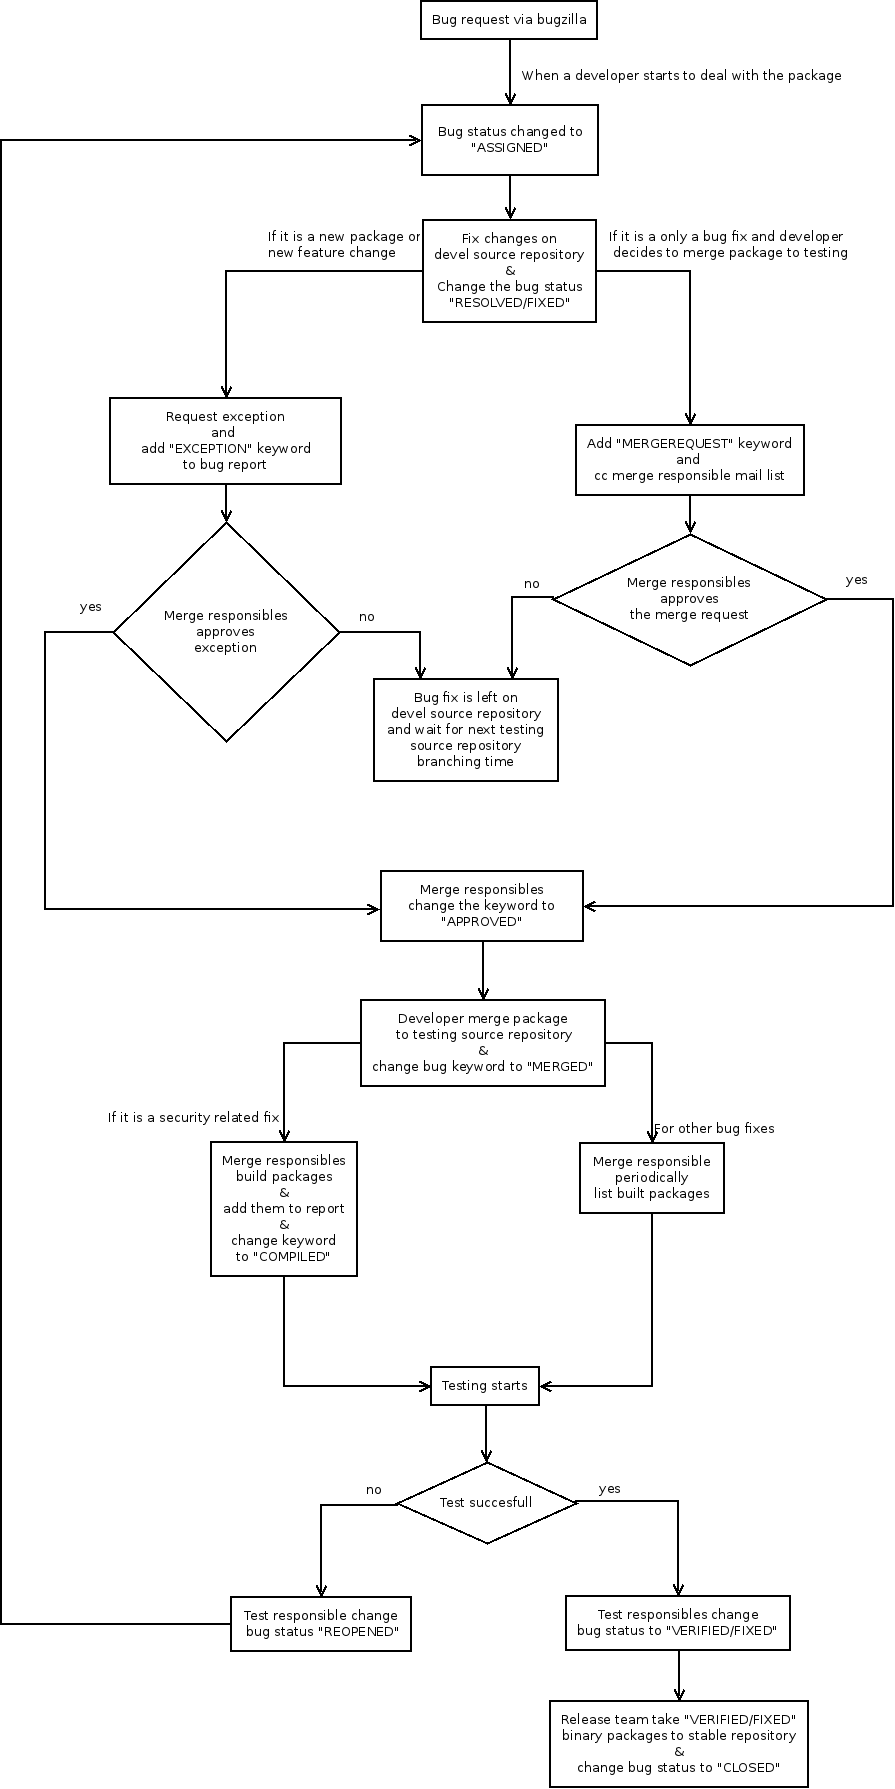
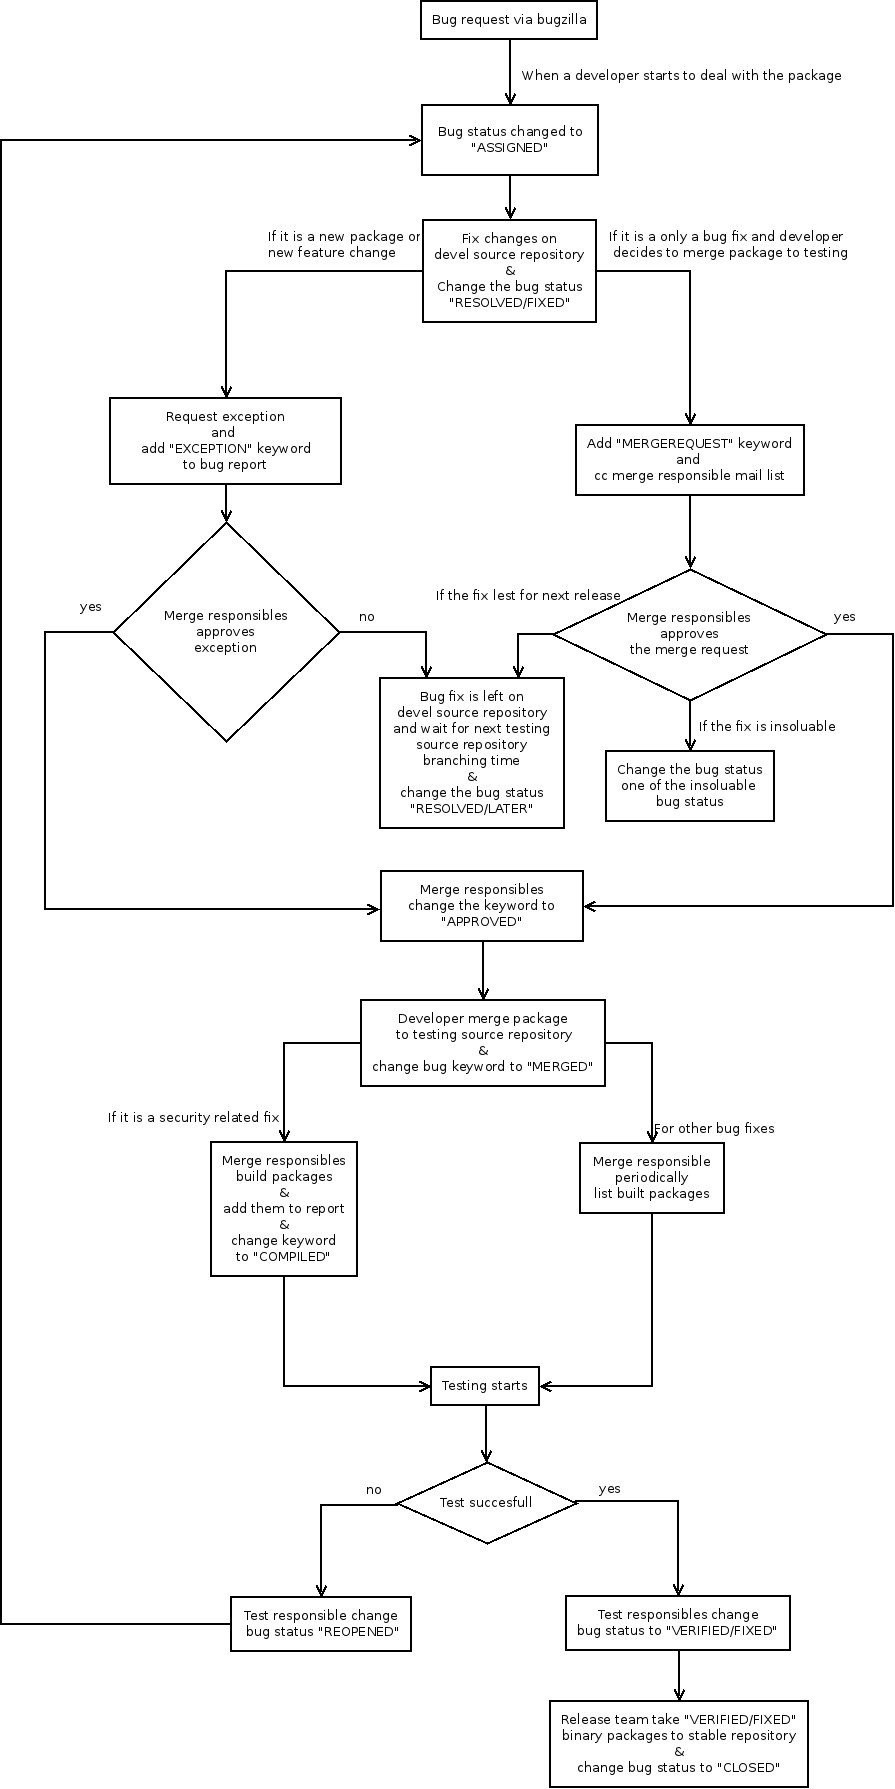
remind and later parts meaning explained and flowchart and other documents updated following this change

diff --git a/guides/newfeature/newfeature_requests.rst b/guides/newfeature/newfeature_requests.rst
@@ -116,7 +116,7 @@ There exist also another deadline that is the new feature acceptence deadline. B
 
 #. Release team, related team leader and assigned developer review "low" and "newfeature" severity bugs.
     #. If the new feature request is not suitable for `What is a Feature?`_ description, the report status is marked with **RESOLVED/INVALID**.
-    #. If this new feature can not be done for this new release but may be done for the next new release, the report status is marked with **RESOLVED/LATER**.
+    #. If this new feature can not be done for this new release but may be done for the next new release, the report status is marked with **RESOLVED/REMIND**.
     #. If this new feaure is suitable for `What is a Feature?`_ description, and can be accepted for this new release:
         #. One of the developers will start to deal with this feature and the report status is marked with **ASSIGNED**.
         #. If necessary the product and component can be changed.
@@ -129,8 +129,8 @@ Accomplishment of New Feature
 
 There exist a deadline for the accomplishment of the new feature (`feature freeze time`_).
 
-    #. If the developer can not be finish the work in due time, the status of the bug report is marked as "RESOLVED/LATER" and the new feature is left to next release.
-    #. If the developer can finish the work in time, the bug status is marked as "RESOLVED/FIXED" via SVN commits of the developer.
+    #. If the developer can not be finish the work in due time, the status of the bug report is marked as **RESOLVED/LATER** and the new feature is left to next release.
+    #. If the developer can finish the work in time, the bug status is marked as **RESOLVED/FIXED** via SVN commits of the developer.
 
 After freeze time new feature can be accepted under some `exceptional circumstances`_.
 
@@ -140,7 +140,8 @@ How I can follow the new feature progress?
 If the bug status is marked as:
 
 #. **RESOLVED/INVALID**, your new feature request is unfortunately not accepted.
-#. **RESOLVED/LATER**, your new feature request is left to next release.
+#. **RESOLVED/REMIND**, your new feature request is left to next release and not fixed on devel source repository.
+#. **RESOLVED/LATER**, your new feature request is left to next release, but fixed on devel source repository.
 #. **ASSIGNED**, your new feature request is accepted as a new feature of this new release.
     #. The implementation progress is reflected to comments as SVN commits. 
     #. The implementation can also be followed via related task of the project management tool URL given in the bug report.

diff --git a/guides/newfeature/new_package_requests.rst b/guides/newfeature/new_package_requests.rst
@@ -23,10 +23,10 @@ If you want to a Pardus developer you can follow `new contributor`_ part and sta
 If you are a developer
 ^^^^^^^^^^^^^^^^^^^^^^
 
-#. Choose your package from Pardus Bugzilla `New Package Request`_ component (If it is not filed yet, please create a new bug) and changed the status of the bug to ASSIGNED
+#. Choose your package from Pardus Bugzilla `New Package Request`_ component (If it is not filed yet, please create a new bug) and changed the status of the bug to **ASSIGNED**
 #. Follow `package creation guidelines`_ and create the package and commit it to `playground/review source repository`_.
 #. Start `package review process`_ of your package
-#. After the package pass the `package review criteria`_ and merge to `devel source repository`_, please change the New Package Request bug to RESOLVED/FIXED.
+#. After the package pass the `package review criteria`_ and merge to `devel source repository`_, please change the New Package Request bug to **RESOLVED/FIXED**.
 
 
 Deadline for new package merges to new Pardus release

diff --git a/guides/packaging/package_update_process.rst b/guides/packaging/package_update_process.rst
@@ -183,7 +183,7 @@ The following workflow applies when the package maintainer decides to merge the 
 
 #. Give **MERGEREQUEST** keyword and CC merge responsible mail lists to the bug report
 #. The merge responsibles review this merge request:
-    #. If the merge request is not approved, bug takes the one of the `insoluable bug resolutions`_ by merge responsibles.
+    #. If the merge request is not approved, bug takes the one of the `insoluable bug resolutions`_ or left for next release and status is changed to **RESOLVED/LATER**  by merge responsibles.
     #. If the merge request is approved, the bug marked with **APPROVED** keyword.
         #. The developer merge it to `testing source repository`_ and reflect it as a comment to merge bug report using the following special keyword in the SVN commit messages and give **MERGED** keyword to the bug::
 

diff --git a/guides/bugtracking/bug_cycle.rst b/guides/bugtracking/bug_cycle.rst
@@ -26,7 +26,8 @@ This document gives information about Pardus bug tracking system process. The pr
             #. If the bug is an insolubale bug:
                 - WONTFIX: Bugs are not related to Pardus and will never be fixed
                 - DUPLICATE: Bugs which have duplicates which are already been reported
-                - LATER: Bugs can be fixed for the next release or for a later time
+                - REMIND: Bugs can be fixed for the next release or for a later time
+                - LATER: Bugs fixed and can be merged for the next release or for a later time
                 - INVALID: Bugs that are not realy a bug
                 - WORKSFORME: Bugs could not be reproduced
                 - NEXTRELEASE: Bugs fixed in next release

diff --git a/guides/releasing/freezes/freeze_exception_process.rst b/guides/releasing/freezes/freeze_exception_process.rst
@@ -19,7 +19,7 @@ All freeze exception bugs must include the following information, in order to pr
 
 We expect that the requested exceptions have already been prepared.
 
-When the release manager group approves the exception, the bug keyword is changed to **APPROVED**, otherwise the bug report remains in **EXCEPTION** keyword state and wait for the next new Pardus release.
+When the release manager group approves the exception, the bug keyword is changed to **APPROVED**, otherwise the bug status is changed to **RESOLVED/LATER** and keywored remains in **EXCEPTION** state and wait for the next new Pardus release.
 
 Feature Freeze Exceptions for new upstream versions
 ---------------------------------------------------
